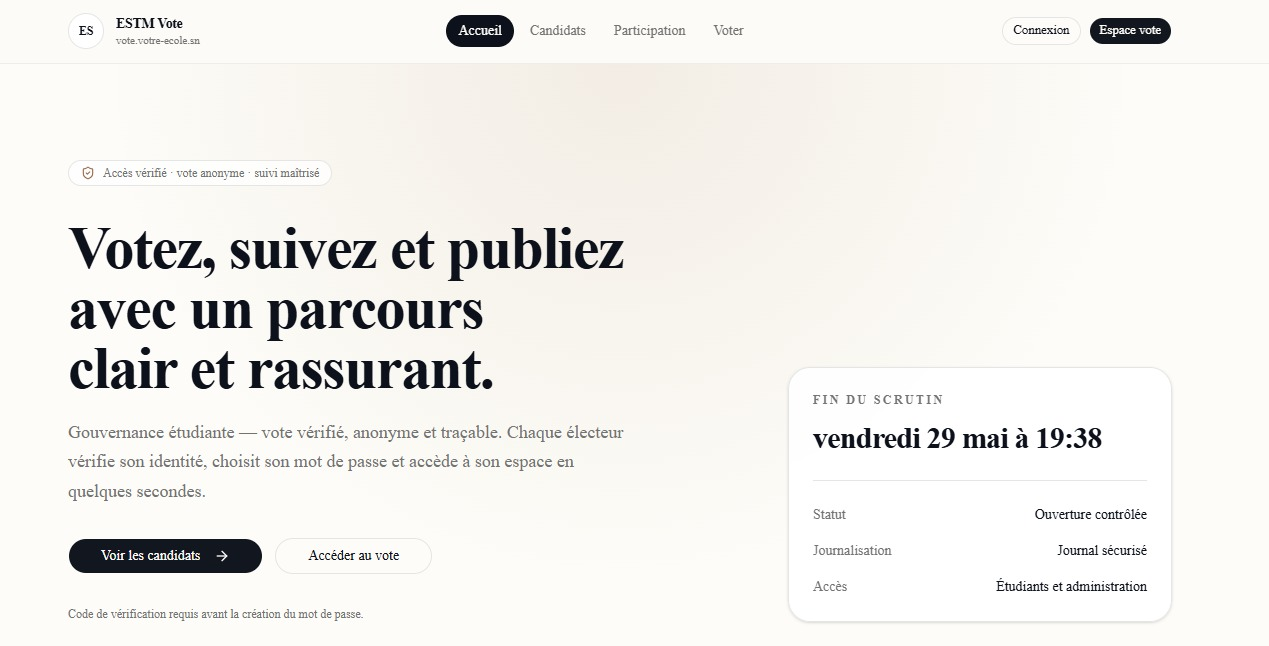
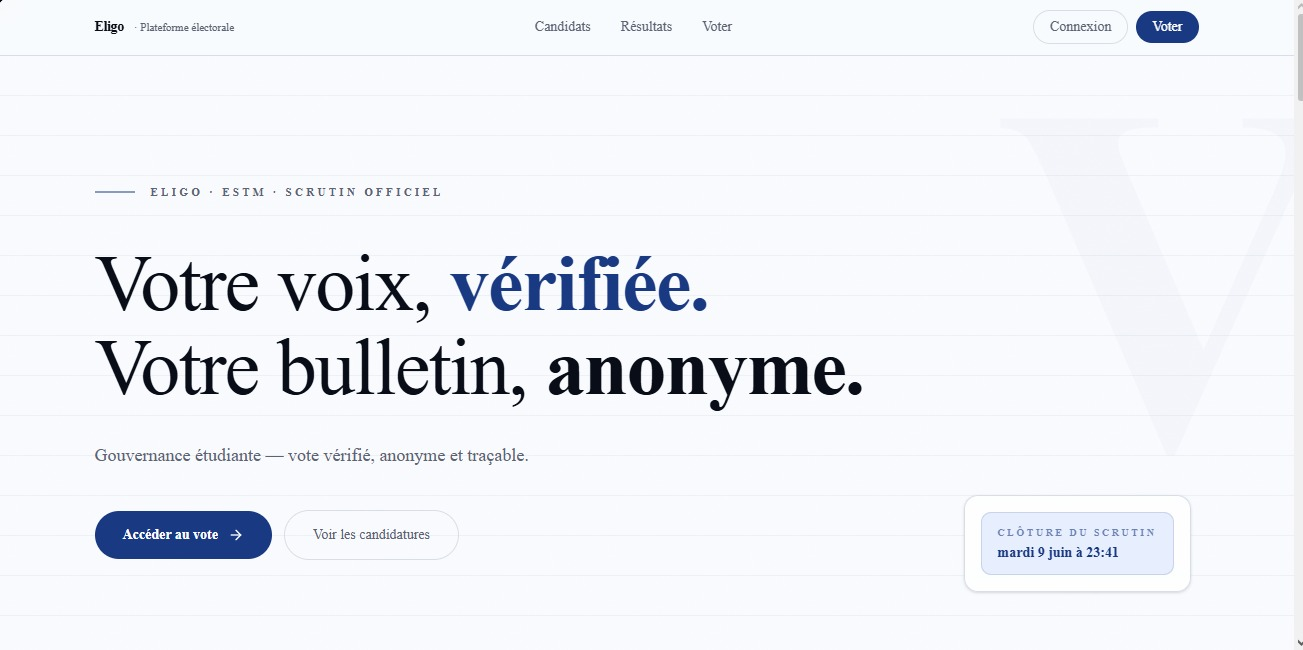
...

diff --git a/src/App.jsx b/src/App.jsx
@@ -3,12 +3,12 @@ import TypeWords from './components/TypeWords';
 import AboutSection from './components/AboutSection';
 import ScrollToTop from './components/ScrollToTop';
 import myProfileface from './images/myProfileface.webp';
-import studyMatiere from './images/study-matiere.webp';
+import studyMatiere from './images/study-planner-dashboard.webp';
 import todolist from './images/todolist.webp';
-import tackoMenu from './images/tacko-menu.webp';
-import difashionCollection from './images/difashion-collection.webp';
-import cloudFichier from './images/cloud-fichier.webp';
-import voteSection from './images/vote-section.webp';
+import tackoMenu from './images/tackodelices-hero-section.webp';
+import difashionCollection from './images/djifashion-hero.webp';
+import cloudFichier from './images/cloud-dashboard.webp';
+import voteSection from './images/vote-hero.jpeg';
 
 const STARS = [
   { top: '8%',  left: '12%',  size: 2.5, dur: 4,  delay: 0,    opacity: 0.75, bright: true  },
